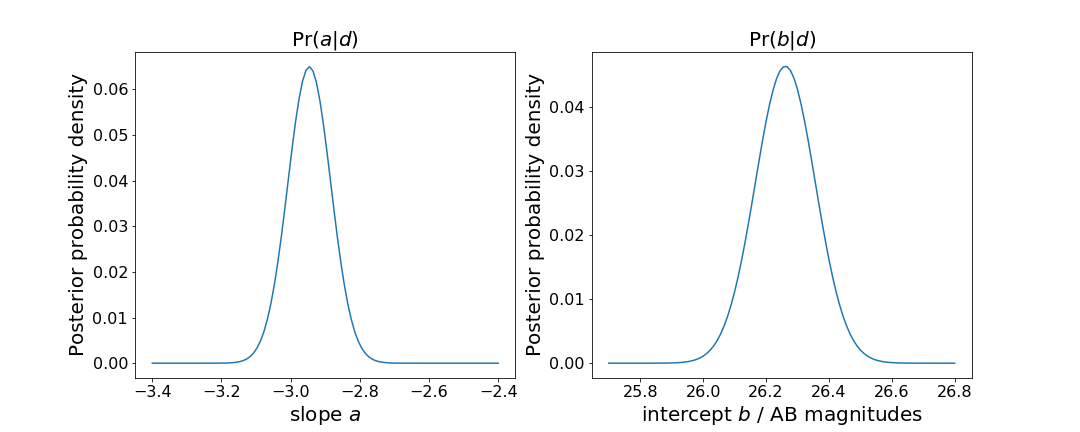
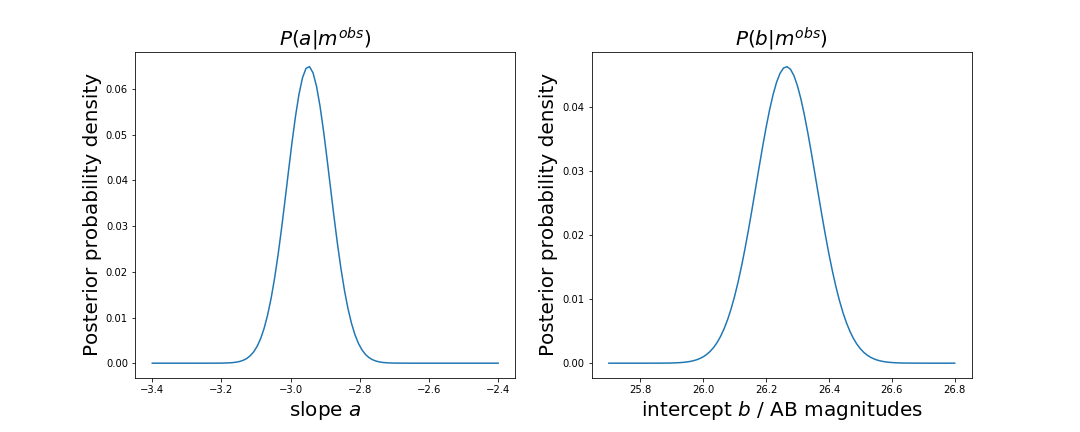
Updated plots for uniform priors, corrected titles

diff --git a/lessons/code/cepheids.py b/lessons/code/cepheids.py
@@ -140,12 +140,12 @@ def plot_1d_marginalized_pdfs(a, b, Pa, Pb):
     plt.subplots_adjust(wspace=0.2)
 
     left.plot(a, prob_a_given_data)
-    left.set_title('${\\rm Pr}(a|d)$', fontsize=20)
+    left.set_title('$P(a|m^{obs})$', fontsize=20)
     left.set_xlabel('slope $a$', fontsize=20)
     left.set_ylabel('Posterior probability density', fontsize=20)
 
     right.plot(b, prob_b_given_data)
-    right.set_title('${\\rm Pr}(b|d)$', fontsize=20)
+    right.set_title('$P(b|m^{obs})$', fontsize=20)
     right.set_xlabel('intercept $b$ / AB magnitudes', fontsize=20)
     right.set_ylabel('Posterior probability density', fontsize=20)
 
